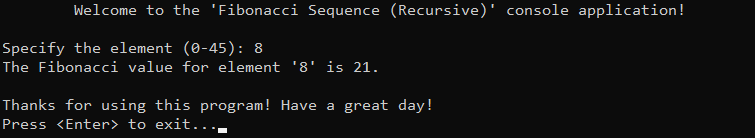
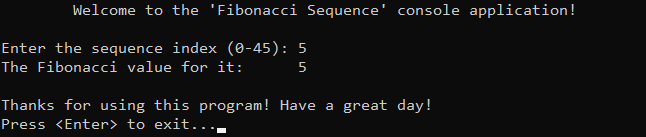
Upd 'Fibonacci': comparison->trade-offs, call-stack interaction -> overview, typos, code style, links, formatting.

diff --git a/Algorithms/Recursion/Fibonacci/Source/Main.cpp b/Algorithms/Recursion/Fibonacci/Source/Main.cpp
@@ -12,17 +12,18 @@ int main() {
 	// Greet
 	std::cout << "\tWelcome to the 'Fibonacci Sequence' console application!\n";
 
-	// Specify the number
-	std::cout << "\nSpecify the sequence element (0-45): "; 
+	// Prompt the user for input
+	std::cout << "\nEnter the sequence index (0-45): "; 
 	int n = 0;
 	std::cin >> n;
 
-	// Compute and display result
-	std::cout << "The Fibonacci value for it: " << fibonacci(n) << ".\n";
+	// Compute and display the result
+	std::cout << "The Fibonacci value for it:\t " << fibonacci(n) << "\n";
 
 	// Exit
 	std::cout << "\nThanks for using this program! Have a great day!\n";
 	std::cout << "Press <Enter> to exit...";
+	std::cin.ignore();
 	std::cin.get();
 	return 0;
 }

diff --git a/Algorithms/Recursion/Fibonacci/Source/Fibonacci.cpp b/Algorithms/Recursion/Fibonacci/Source/Fibonacci.cpp
@@ -6,6 +6,7 @@
 
 #include "Fibonacci.h"
 
+
 int fibonacci(int n) {
 	if (n <= 1) { return n; }
 	return fibonacci(n - 1) + fibonacci(n - 2);

diff --git a/Algorithms/Recursion/Fibonacci/Fibonacci.md b/Algorithms/Recursion/Fibonacci/Fibonacci.md
@@ -7,10 +7,9 @@
   - [Design Decisions](#design-decisions)
   - [Complete Implementation](#complete-implementation)
   - [Detailed Walkthrough](#detailed-walkthrough)
-  - [Call Stack Interaction](#call-stack-interaction)
 - [📊 Analysis](#-analysis)
   - [Algorithm Characteristics](#algorithm-characteristics)
-  - [Algorithm Comparison](#algorithm-comparison)
+  - [Trade-Offs](#trade-offs)
 - [📝 Application](#-application)
   - [Common Use Cases](#common-use-cases)
   - [Some Practical Problems](#some-practical-problems)
@@ -61,7 +60,7 @@ To prioritize simplicity and emphasize algorithm itself, several design decision
 
 
 ## Complete Implementation
-Algorithm implemented within the function `fibonacci()`, which is declared in `Fibonacci.h` header file and defined in `Fibonacci.cpp` source file. This approach is adopted to ensure encapsulation, modularity and compilation efficiency. Examination of fibonacci sequence computation is conducted within the `main()` function located in the `Main.cpp` file. Below you can find related code snippets.
+Algorithm implemented within the function `fibonacci()`, which is declared in [Fibonacci.h](https://github.com/vezzolter/DSA/blob/main/Algorithms/Recursion/Fibonacci/Include/Fibonacci.h) header file and defined in [Fibonacci.cpp](https://github.com/vezzolter/DSA/blob/main/Algorithms/Recursion/Fibonacci/Source/Fibonacci.cpp) source file. This approach is adopted to ensure encapsulation, modularity and compilation efficiency. Examination of fibonacci sequence computation is conducted within the `main()` function located in the [Main.cpp](https://github.com/vezzolter/DSA/blob/main/Algorithms/Recursion/Fibonacci/Source/Main.cpp) file. Below you can find related code snippets.
 
 ```cpp
   int fibonacci(int n) {
@@ -78,18 +77,8 @@ Algorithm implemented within the function `fibonacci()`, which is declared in `F
 ```
 2. If the number is greater than `1`, the function recursively calls itself twice: once for `fibonacci(n - 1)` and once for `fibonacci(n - 2)`. The results of these two recursive calls are added together to produce the Fibonacci number for the input `n`. This continues until the base case is reached for each recursive branch.
 ```cpp
-	return fibonacci(n - 1) + fibonacci(n - 2);
+  return fibonacci(n - 1) + fibonacci(n - 2);
 ```
-
-
-
-## Call Stack Interaction
-1. First things first, the program calls `main()` function and its frame is added on top of the call stack.  <p align="center"><img src="./Images/Step_0.png"/></p>
-2. When we encounter the call of `fibonacci(int n)` function, we add its frame (`fibonacci(5)`) on top of the call stack. As long as given number ($n=5$) is not equals to $0$ or $1$, we reach `return fibonacci(n - 1) + fibonacci(n - 2);` this part of function, where start to add two another frames - `fibonacci(4)` for `fibonacci(n - 1)` and  `fibonacci(3)` for `fibonacci(n - 2)`:  <p align="center"><img src="./Images/Step_1.png"/></p> 
-3. This process of breaking of problem continues until we delve to the base cases, therefore forming next sequence of calls: <p align="center"><img src="./Images/Step_2.png"/></p> 
-4. Upon reaching base cases, the called functions now start to return values and pop off their frames from the stack. <p align="center"><img src="./Images/Step_3.png"/></p>
-5. This visualization allows to see recursive nature in action and denoting, that there is no need to actually calculate some function calls, because they were already calculated in other area. Unfortunately, this implementation of recursion can't affect that, thats the area of memoization and dynamic programming. <p align="center"><img src="./Images/Step_4.png"/></p> 
-6. So the control flow continues this process until we reach the initial (first) function call. <p align="center"><img src="./Images/Step_5.png"/></p>
 
 
 
@@ -99,13 +88,21 @@ Understanding the characteristics of an algorithm is essential for choosing the 
 
 ## Algorithm Characteristics
 - **Time Complexity:**
-    - $O(n!)$ — every function calls two other functions.
+    - $O(2^n)$ — each function call branches into two more calls, leading to an exponential growth in the number of calls.
 - **Auxiliary Space Complexity:** 
-   - $O(n)$ — maximum depth of the recursion tree is $n$.
+   - $O(n)$ — the maximum depth of the recursion tree is $n$ because each recursive call adds a new frame to the call stack until it reaches the base case.
 
 
-## Algorithm Comparison
-Will be Updated in the Future...
+## Trade-Offs
+➕ **Advantages:**  
+- **Simplicity and Clarity** — algorithm is easy to implement and understand due to its direct translation from the mathematical definition of the Fibonacci sequence.
+- **Good for Small Inputs** — algorithm works fine for small input values where the exponential time complexity does not pose significant performance issues.
+
+---  
+➖ **Disadvantages:**  
+- **Exponential Time Complexity** — algorithm runs in $O(2^n)$ time due to repeated recomputation of the same subproblems, making it highly inefficient for larger inputs.
+- **High Function Call Overhead** — algorithm incurs significant overhead from recursive function calls, leading to a deep recursion stack and potential stack overflow for larger values of $n$.
+- **Lack of Memoization** — algorithm does not store previously computed values, resulting in redundant calculations that slow down performance drastically.
 
 
 
@@ -115,9 +112,10 @@ Understanding some of the most well-known use cases of an algorithm is crucial f
 
 ## Common Use Cases
 - **Fibonacci Heaps** — sequence is used in priority queue data structures to manage heap-ordered trees. When two trees of the same rank are merged, the number of trees is reduced based on Fibonacci numbers, ensuring that the structure remains balanced and  contributing to the overall amortized time of operations.
-- **Fibonacci Search** — sequence is used in algorithm to search within sorted arrays. The sequence’s predictable growth pattern helps determine optimal probing positions, minimizing the number of comparisons during the search process.
-- **Lagged Fibonacci Generator (LFG)** — sequence is used in pseudo-random number generator. The recursive relationship of the sequence combines previous values with a lag, improving the statistical properties and period length of the generated sequence.
 
+- **Fibonacci Search** — sequence is used in algorithm to search within sorted arrays. The sequence’s predictable growth pattern helps determine optimal probing positions, minimizing the number of comparisons during the search process.
+
+- **Lagged Fibonacci Generator (LFG)** — sequence is used in pseudo-random number generator. The recursive relationship of the sequence combines previous values with a lag, improving the statistical properties and period length of the generated sequence.
 
 
 ## Some Practical Problems
@@ -134,9 +132,9 @@ The first mention of sequence was around 200 BC done by Indian mathematician **A
 
 Centuries later, in 1170, an Italian mathematician named **Leonardo** was born in Pisa. As a teenager, he accompanied his father to work in the port city of Bugia, present-day Algeria, where he represented Italian merchants. In Bugia, Leonardo encountered numerous merchants using Hindi and Arab numerals in their calculations. Intrigued by the efficiency and simplicity of this numerical system, which contrasted with the widely used Roman numerals in Europe, Leonardo began to learn and appreciate the advantages of it.
 
-Over the course of his life, Leonardo interacted with numerous merchants, absorbing knowledge from them and translating his insights into several books. These works covered the advantages of Hindu numerals, delved into various mathematical problems, explored geometry and delved into number theory. However, his most renowned contribution is arguably found in "Liber Abaci" (1202). In this book, Leonardo explained how adopting this numerical system could greatly simplify business transactions.
+Over the course of his life, Leonardo interacted with numerous merchants, absorbing knowledge from them and translating his insights into several books. These works covered the advantages of Hindu numerals, delved into various mathematical problems, explored geometry and delved into number theory. However, his most renowned contribution is arguably found in «Liber Abaci» (1202). In this book, Leonardo explained how adopting this numerical system could greatly simplify business transactions.
 
-Besides popularizing the Hindu-Arabic numerical system, he introduced the discussed sequence while addressing a challenge linked to the proliferation of rabbit populations. Notably, he did not explicitly named it the "Fibonacci sequence." It was only later, as his books gained popularity, that the name "Fibonacci", derived from "filius Bonacci" (roughly meaning "son of the Bonacci family"), was coined by Franco-Italian historian Guillaume Libri in 1838 to distinguish him from other Leonardo.
+Besides popularizing the Hindu-Arabic numerical system, he introduced the discussed sequence while addressing a challenge linked to the proliferation of rabbit populations. Notably, he did not explicitly named it the «Fibonacci sequence». It was only later, as his books gained popularity, that the name «Fibonacci», derived from «filius Bonacci» (roughly meaning «son of the Bonacci family»), was coined by Franco-Italian historian Guillaume Libri in 1838 to distinguish him from other Leonardo.
 
 
 
@@ -152,11 +150,11 @@ For contact details and additional information, please refer to the [root direct
 
 # &#128591; Credits
 &#128218; **Books:**
+- **"Algorithms in C++, Parts 1-4: Fundamentals, Data Structure, Sorting, Searching" (3rd Edition)** — by Robert Sedgewick
+  - Section 5.3: Dynamic programming
 - **"Data Structures and Algorithm Analysis in C++" (4th Edition)** — by Mark Allen Weiss
   - Section 2.4: Running-Time Calculations
-- **"Algorithms in C++, Parts 1-4: Fundamentals, Data Structure, Sorting, Searching" (3rd Edition)** — by Robert Sedgewick
-  - Section 5.2: Dynamic programming
- - **"The Art of Computer Programming, Volume 1: Fundamental Algorithms" (3rd Edition)** — by Donald Ervin Knuth 
+- **"The Art of Computer Programming, Volume 1: Fundamental Algorithms" (3rd Edition)** — by Donald Ervin Knuth 
   - Section 1.2.8: Fibonacci Numbers
 
 ---
@@ -168,10 +166,10 @@ For contact details and additional information, please refer to the [root direct
 &#127760; **Web-Resources:**
 - [Fibonacci Sequence](https://en.wikipedia.org/wiki/Fibonacci_sequence) (Wikipedia)
 - [Golden ratio](https://en.wikipedia.org/wiki/Golden_ratio) (Wikipedia)
-- [Golden ratio: A beginner's guide](https://www.adobe.com/creativecloud/design/discover/golden-ratio.html)
-- [Binet's Formula](https://artofproblemsolving.com/wiki/index.php/Binet%27s_Formula)
-- [The Fibonacci Sequence. Its history, Significance, and Manifestations in Nature](https://core.ac.uk/download/pdf/58824887.pdf) (Thesis)
-- [The so-called fibonacci numbers in ancient and medieval India](https://www.sciencedirect.com/science/article/pii/0315086085900217?via%3Dihub) (Research)
+- [Golden ratio: A beginner's guide](https://www.adobe.com/creativecloud/design/discover/golden-ratio.html) (Article)
+- [Binet's Formula](https://artofproblemsolving.com/wiki/index.php/Binet%27s_Formula) (Article)
+- [The Fibonacci Sequence. Its history, Significance, and Manifestations in Nature](https://core.ac.uk/download/pdf/58824887.pdf) (Research Paper)
+- [The so-called fibonacci numbers in ancient and medieval India](https://www.sciencedirect.com/science/article/pii/0315086085900217?via%3Dihub) (Research Paper)
 
 
 
